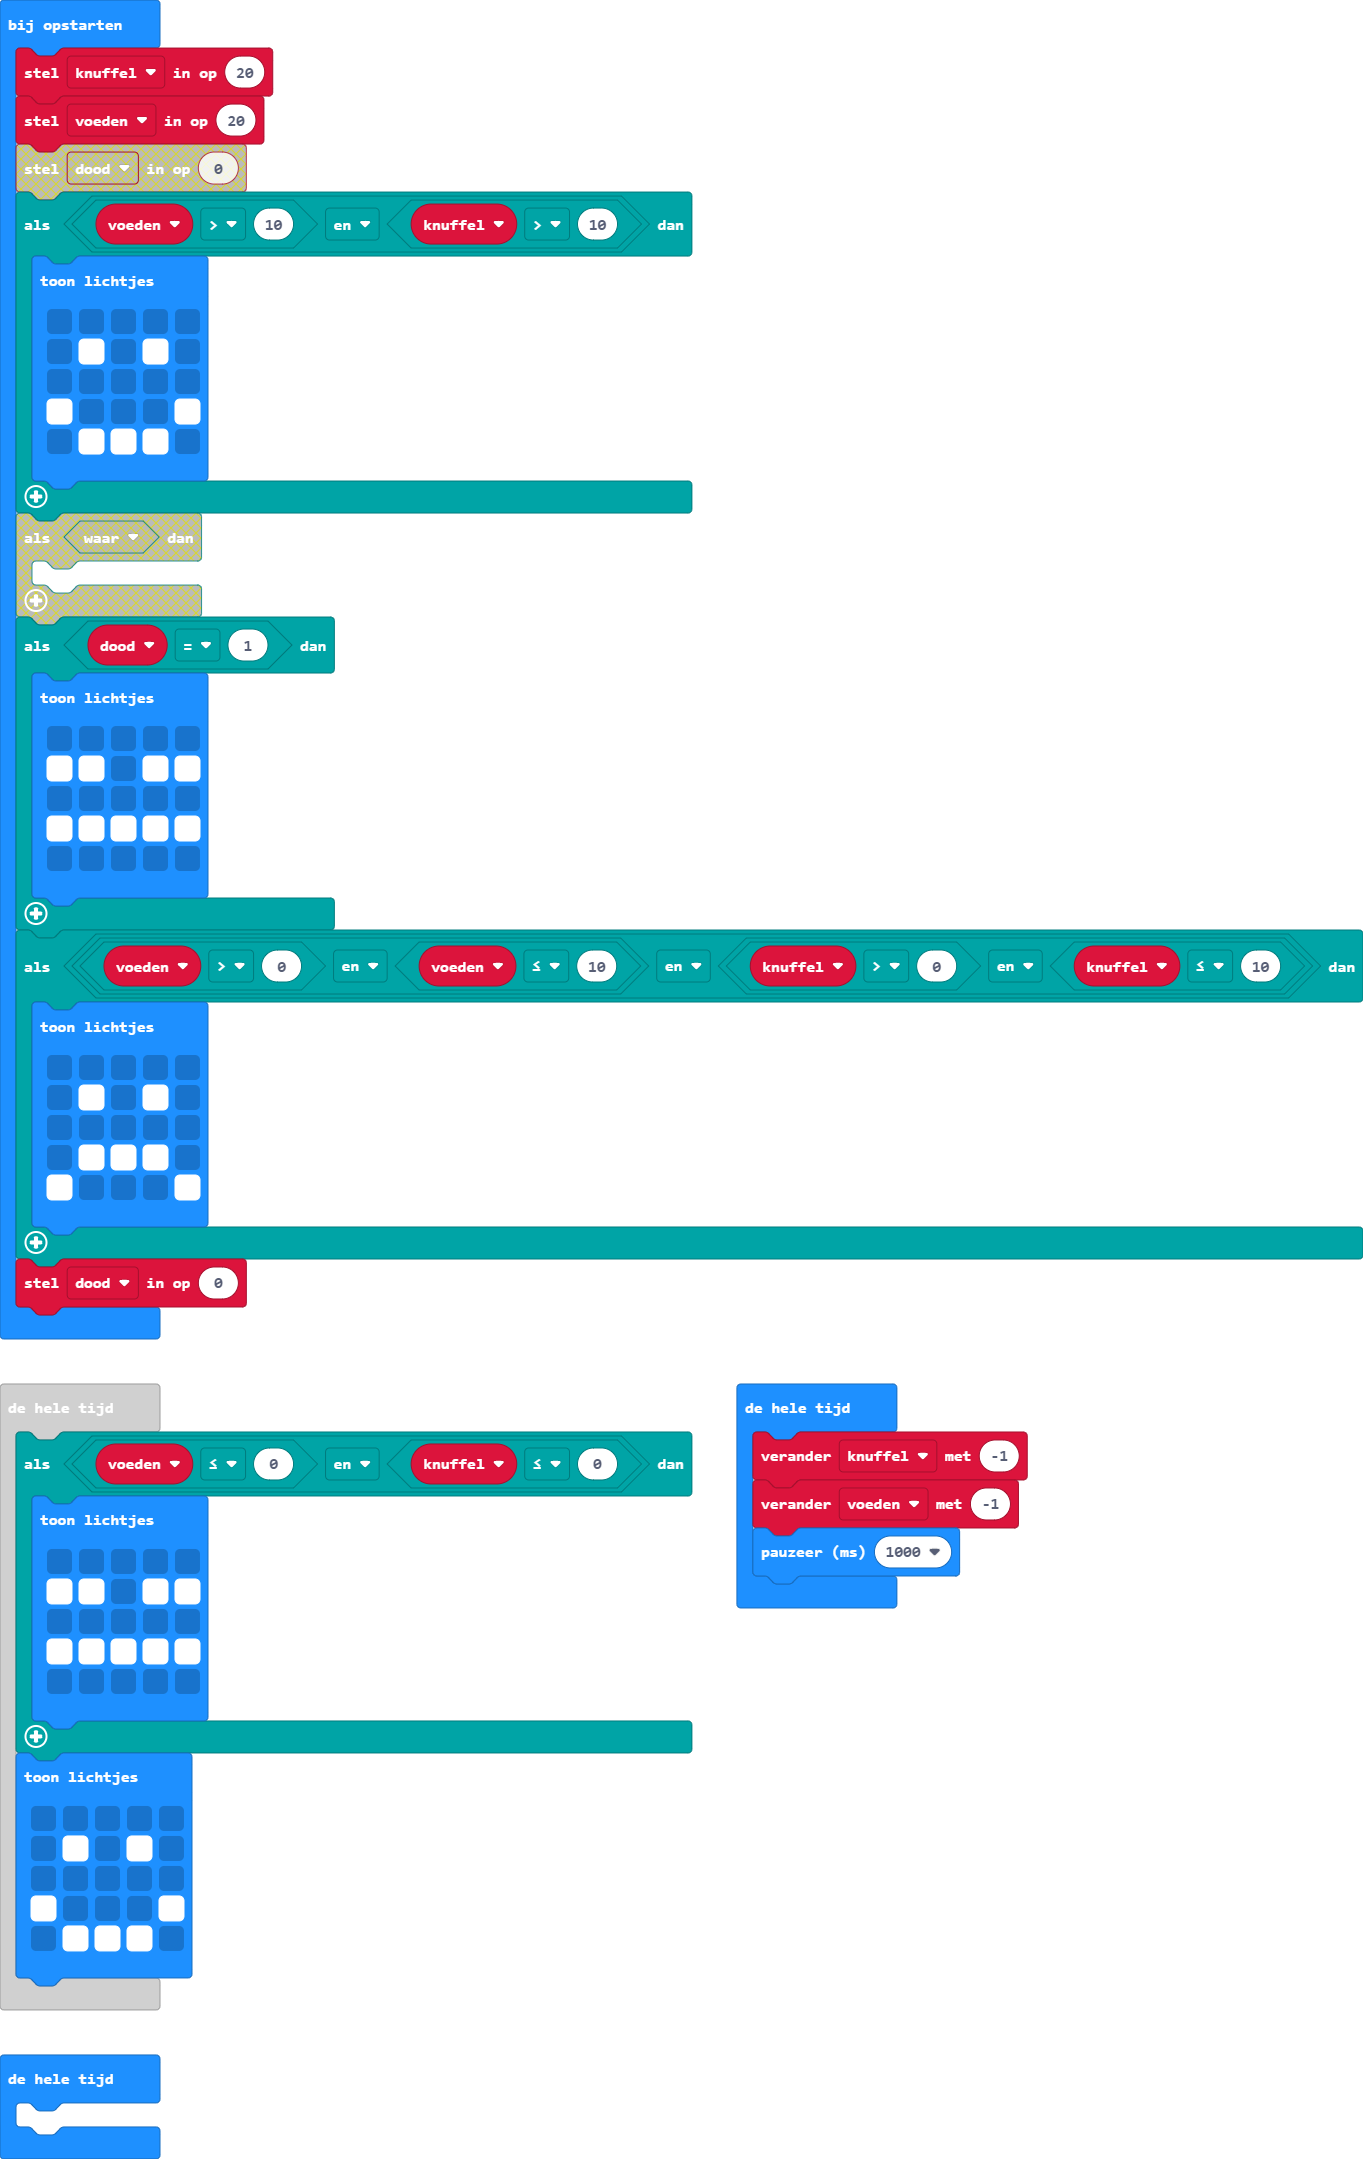
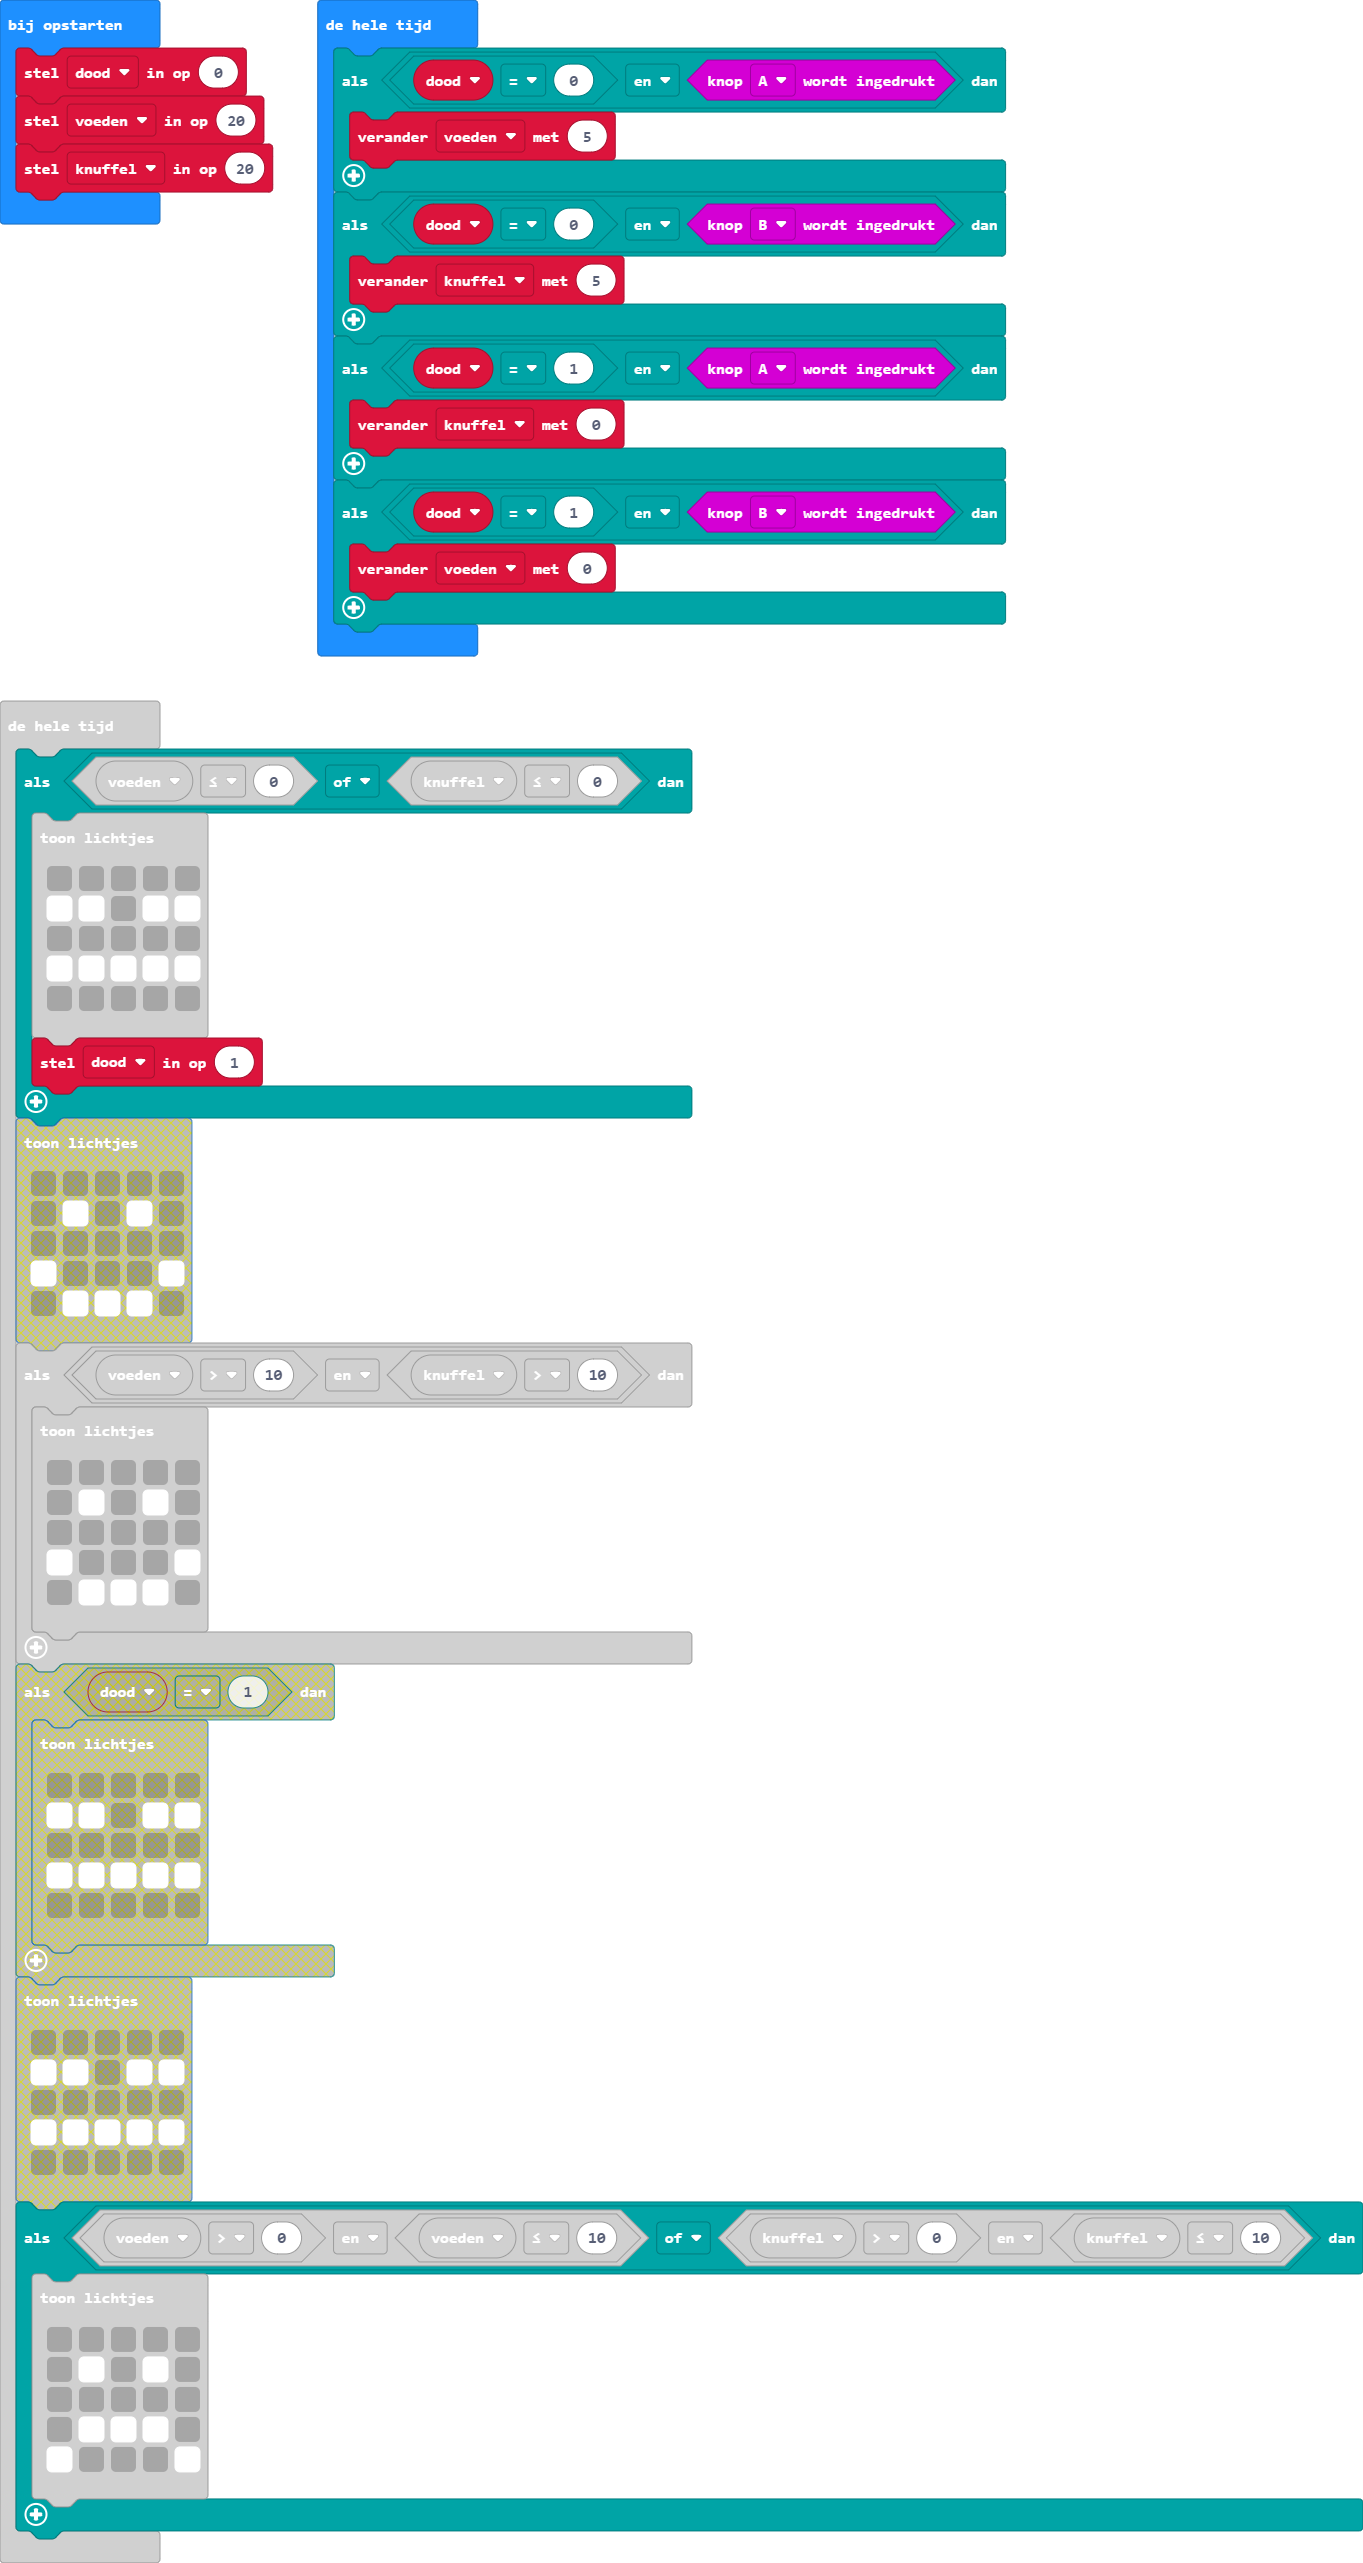
main.blocks, main.ts bijwerken

diff --git a/main.ts b/main.ts
@@ -1,8 +1,27 @@
-let knuffel = 20
-let voeden = 20
 let dood = 0
+let voeden = 20
+let knuffel = 20
 basic.forever(function () {
-    if (voeden <= 0 && knuffel <= 0) {
+    if (dood == 0 && input.buttonIsPressed(Button.A)) {
+        voeden += 5
+    }
+    if (dood == 0 && input.buttonIsPressed(Button.B)) {
+        knuffel += 5
+    }
+    if (dood == 1 && input.buttonIsPressed(Button.A)) {
+        knuffel += 0
+    }
+    if (dood == 1 && input.buttonIsPressed(Button.B)) {
+        voeden += 0
+    }
+})
+basic.forever(function () {
+    knuffel += -1
+    voeden += -1
+    basic.pause(1000)
+})
+basic.forever(function () {
+    if (voeden <= 0 || knuffel <= 0) {
         basic.showLeds(`
             . . . . .
             # # . # #
@@ -10,14 +29,8 @@ basic.forever(function () {
             # # # # #
             . . . . .
             `)
+        dood = 1
     }
-    basic.showLeds(`
-        . . . . .
-        . # . # .
-        . . . . .
-        # . . . #
-        . # # # .
-        `)
     if (voeden > 10 && knuffel > 10) {
         basic.showLeds(`
             . . . . .
@@ -27,16 +40,7 @@ basic.forever(function () {
             . # # # .
             `)
     }
-    if (dood == 1) {
-        basic.showLeds(`
-            . . . . .
-            # # . # #
-            . . . . .
-            # # # # #
-            . . . . .
-            `)
-    }
-    if (voeden > 0 && voeden <= 10 && (knuffel > 0 && knuffel <= 10)) {
+    if (voeden > 0 && voeden <= 10 || knuffel > 0 && knuffel <= 10) {
         basic.showLeds(`
             . . . . .
             . # . # .
@@ -45,11 +49,6 @@ basic.forever(function () {
             # . . . #
             `)
     }
-})
-basic.forever(function () {
-    knuffel += -1
-    voeden += -1
-    basic.pause(1000)
 })
 basic.forever(function () {
 	
